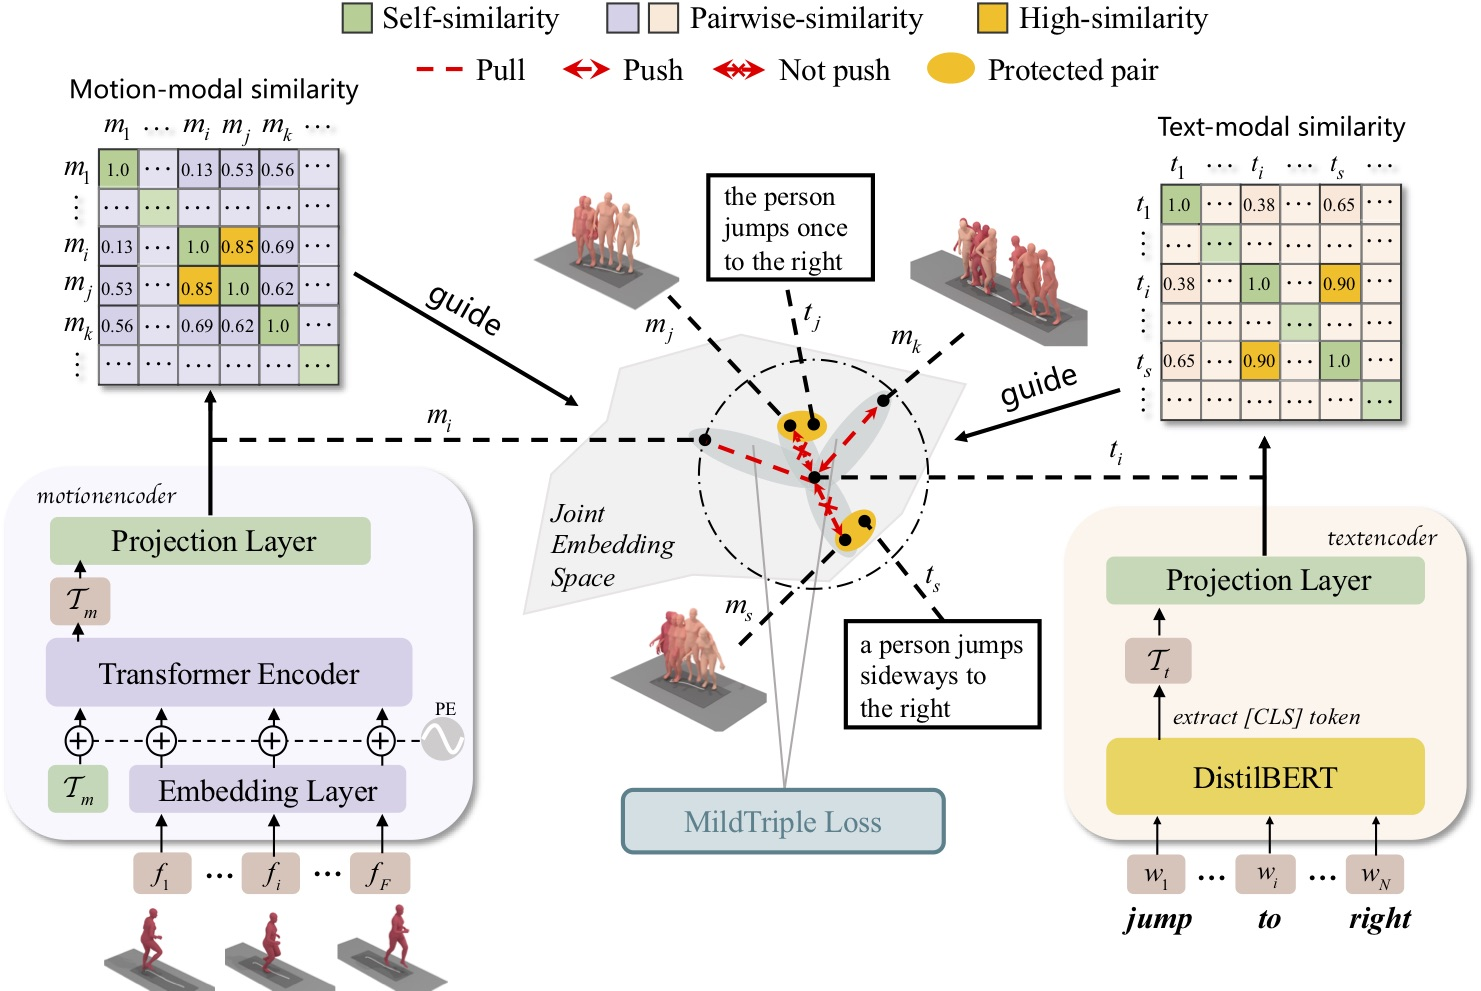
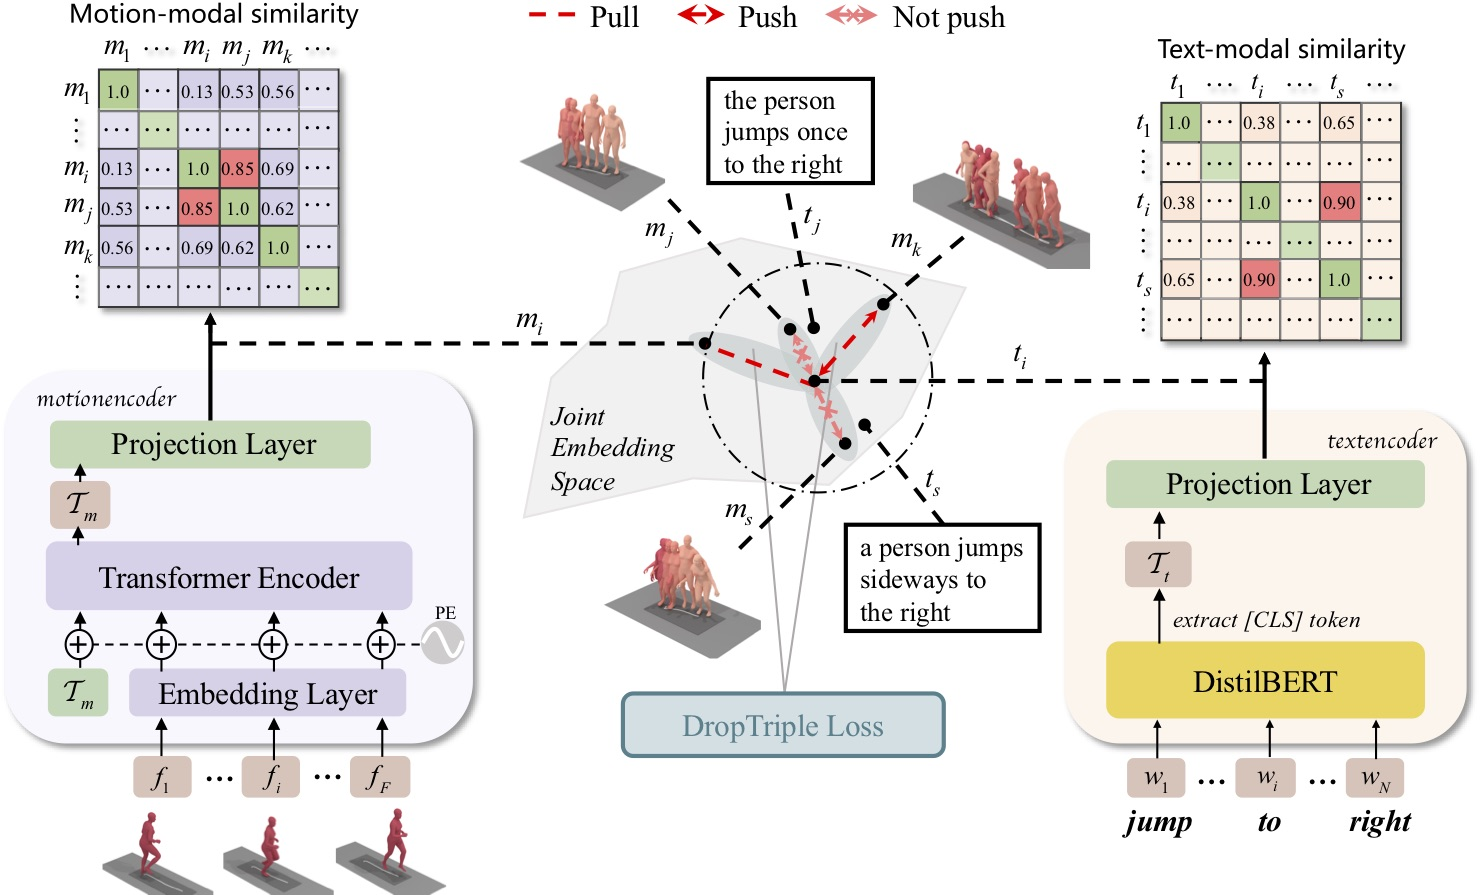
update

Changed region(s): [[0.0, 0.0, 0.9629, 0.9955], [0.7144, 0.4827, 1.0, 0.9352]]

diff --git a/model/losses/losses.py b/model/losses/losses.py
@@ -151,7 +151,7 @@ class SoftContrastiveLoss(nn.Module):
         scores = self.sim(emb1, emb2)
 
         # Soft hard negative mining
-        # MildTrip loss function implementation
+        # DropTrip loss function implementation
         if self.max_violation:
             scores_emb1 = self.sim(emb1, emb1)
             scores_emb2 = self.sim(emb2, emb2)
